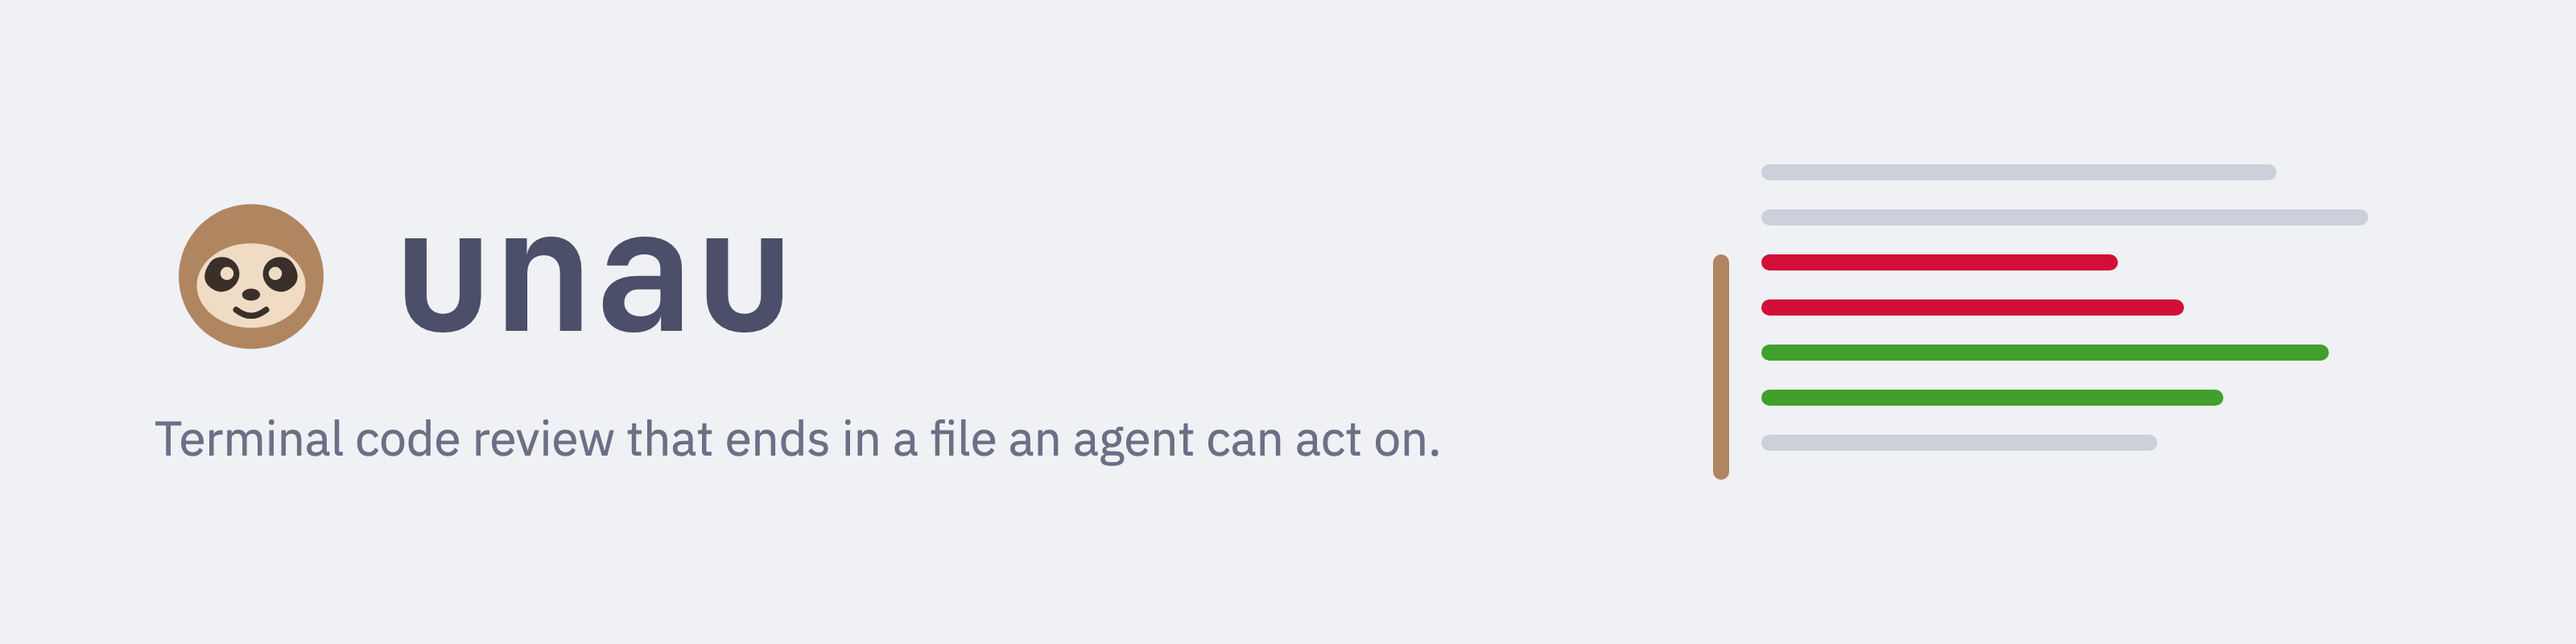
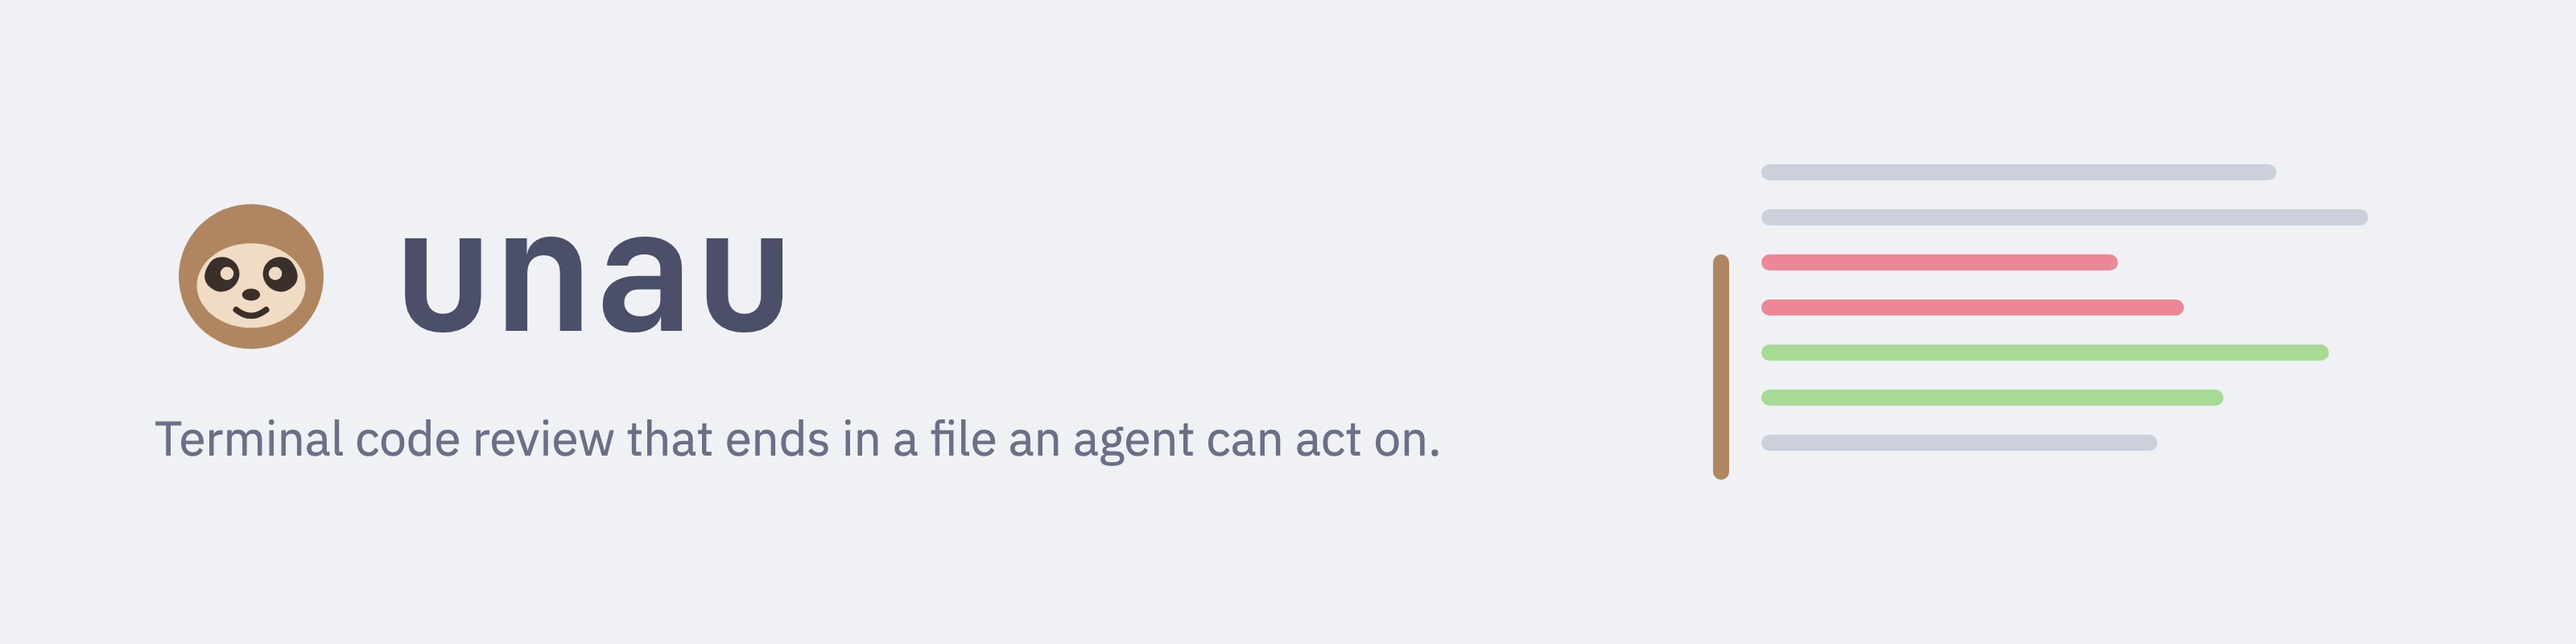
docs: fix stale help text, comments and README
Help text and comments still named .unau/ where the review folder can
move, the README's un-ignore advice could not work under a folder
pattern, and the light header used the saturated diff colours.

Changed region(s): [[0.6875, 0.375, 0.8438, 0.5], [0.6875, 0.5938, 0.875, 0.6562], [0.6875, 0.5312, 0.9062, 0.5625]]

diff --git a/src/config/keys.rs b/src/config/keys.rs
@@ -38,12 +38,12 @@ actions! {
     PrevHunk = "prev_hunk" ["K"] "previous block of changes",
     Top = "top" ["gg"] "first line",
     Bottom = "bottom" ["G"] "last line",
-    ScrollDown = "scroll_down" ["C-e"] "scroll down one line",
-    ScrollUp = "scroll_up" ["C-y"] "scroll up one line",
-    HalfPageDown = "half_page_down" ["C-d"] "half a page down",
-    HalfPageUp = "half_page_up" ["C-u"] "half a page up",
-    PageDown = "page_down" ["C-f"] "a page down",
-    PageUp = "page_up" ["C-b"] "a page up",
+    ScrollDown = "scroll_down" ["C-e"] "scroll the diff down one line",
+    ScrollUp = "scroll_up" ["C-y"] "scroll the diff up one line",
+    HalfPageDown = "half_page_down" ["C-d"] "scroll the diff half a page down",
+    HalfPageUp = "half_page_up" ["C-u"] "scroll the diff half a page up",
+    PageDown = "page_down" ["C-f"] "scroll the diff a page down",
+    PageUp = "page_up" ["C-b"] "scroll the diff a page up",
     PaneLeft = "pane_left" ["h", "Left"] "focus files",
     PaneRight = "pane_right" ["l", "Right"] "focus diff",
     SwitchPane = "switch_pane" ["Tab"] "switch pane",

diff --git a/src/config/template.rs b/src/config/template.rs
@@ -41,10 +41,10 @@ pub fn template() -> String {
         "# quote_lines = {DEFAULT_QUOTE_LINES}               # longer quotes keep their first & last lines; 0 = never cap"
     );
     text.push_str(
-        "# dir = \".unau\"               # where reviews go: relative to the repo, ~/…, or absolute; {repo} = repo folder name\n",
+        "# dir = \".unau\"               # where reviews go: relative to the repository, ~/…, or absolute; {repo} = its folder name\n",
     );
     text.push_str(
-        "# instructions = \".unau/instructions.md\"  # the repo's agent instructions file; default: instructions.md in dir\n",
+        "# instructions = \"…\"           # this repository's agent instructions file; default: instructions.md in the review folder\n",
     );
     text.push_str("\n[theme]\n# mode = \"auto\"                  # auto | light | dark\n");
     let _ = writeln!(text, "# dark = \"{}\"", defaults.dark_name);

diff --git a/src/app/navigate.rs b/src/app/navigate.rs
@@ -84,8 +84,7 @@ fn scrolled(
 }
 
 impl AppState {
-    /// `C-e`, `C-y`, `C-d`, `C-u`, `C-f`, `C-b` in whichever pane has focus.
-    /// The scroll keys move the diff from the files and comments panes too,
+    /// `C-e`, `C-y`, `C-d`, `C-u`, `C-f`, `C-b`. The scroll keys move the diff from the files and comments panes too,
     /// so a file can be read without leaving the list it was picked from.
     /// The run pane keeps them: they are how its output is paged.
     pub fn scroll(&mut self, by: Scroll, down: bool) {
@@ -222,7 +221,6 @@ impl AppState {
         }
     }
 
-    /// Reveals more of the file around the gap under the cursor.
     /// Reveals hidden lines near the cursor. On a separator both its edges
     /// grow; anywhere else the nearest separator grows from the edge facing
     /// the cursor, so the code next to what you are reading appears.

diff --git a/src/app/runlog.rs b/src/app/runlog.rs
@@ -75,7 +75,7 @@ pub fn clean_line(raw: &str) -> String {
             continue;
         }
         match chars.next() {
-            // CSI: parameters until a final byte in @..~.
+            // Control sequence (`ESC [`): parameters until a final byte in @..~.
             Some('[') => {
                 for c in chars.by_ref() {
                     if ('@'..='~').contains(&c) {
@@ -83,7 +83,8 @@ pub fn clean_line(raw: &str) -> String {
                     }
                 }
             }
-            // OSC: until BEL or the string terminator.
+            // Operating system command (`ESC ]`): until the bell or the string
+            // terminator.
             Some(']') => {
                 while let Some(c) = chars.next() {
                     if c == '\u{7}' || (c == '\u{1b}' && chars.next_if_eq(&'\\').is_some()) {

diff --git a/src/git/mod.rs b/src/git/mod.rs
@@ -15,7 +15,8 @@ use std::{
     process::{Command, Output, Stdio},
 };
 
-/// Directory the review files live in, relative to the repository root.
+/// Default review folder, relative to the repository root; `[review] dir`
+/// moves it.
 pub const REVIEW_DIR: &str = ".unau";
 
 /// The SHA-1 of git's empty tree, used as the parent of a root commit.
@@ -87,7 +88,7 @@ impl Repo {
         self.reviews.clone()
     }
 
-    /// The review dir as a path inside the repository, when it is inside.
+    /// The review folder as a path inside the repository, when it is inside.
     pub fn review_dir_in_tree(&self) -> Option<String> {
         let inside = self.reviews.strip_prefix(&self.root).ok()?;
         let inside = inside.to_string_lossy().replace('\\', "/");

diff --git a/src/cli.rs b/src/cli.rs
@@ -20,11 +20,11 @@ pub struct Args {
     #[arg(long, value_name = "FILE", conflicts_with = "target")]
     pub review: Option<PathBuf>,
 
-    /// Reopen the newest review in `.unau/`; start a new one if there is none.
+    /// Reopen the newest review in the review folder (`.unau/` unless `[review] dir` moves it); start a new one if there is none.
     #[arg(long = "continue", conflicts_with_all = ["review", "target", "path", "out"])]
     pub resume: bool,
 
-    /// Print the review to stdout on exit instead of writing `.unau/`. Only `-` is accepted.
+    /// Print the review to stdout on exit instead of writing a review file. Only `-` is accepted.
     #[arg(long, value_name = "-")]
     pub out: Option<String>,
 

diff --git a/src/app/comments.rs b/src/app/comments.rs
@@ -90,7 +90,8 @@ impl AppState {
 
     /// `L`: show and focus the pane, focus it, or hide it.
     pub fn toggle_comments(&mut self) {
-        // The left column is hidden while the diff is zoomed.
+        // Zoom hides the pane, so unzoom to show it; but on the pane already
+        // focused, `L` means hide, and unzooming would undo that.
         if self.layout.zoom && !(self.comments.visible && self.focus == Pane::Comments) {
             self.layout.zoom = false;
             self.relayout();

diff --git a/src/app/persist.rs b/src/app/persist.rs
@@ -8,7 +8,7 @@ use std::{fs, path::PathBuf};
 
 #[derive(Clone, Debug, PartialEq, Eq)]
 pub enum Store {
-    /// `.unau/<name>.md`. `path` is `None` until the first annotation;
+    /// `<name>.md` in the review folder. `path` is `None` until the first annotation;
     /// `synced` is the file's text as last written or read.
     File {
         path: Option<PathBuf>,

diff --git a/src/app/settings.rs b/src/app/settings.rs
@@ -179,7 +179,7 @@ impl AppState {
         Effect::EditFile(path)
     }
 
-    /// After the editor closes on `path`: reload whatever it was.
+    /// After the editor closes: reload whichever settings file changed.
     /// Closing the editor without changing anything reloads nothing and says
     /// nothing.
     pub fn after_edit(&mut self) {

diff --git a/src/app/mod.rs b/src/app/mod.rs
@@ -204,7 +204,6 @@ pub struct AppState {
     pub config_files: ConfigFiles,
     /// Output and status of the latest background run.
     pub run_log: Option<RunLog>,
-    /// The comments pane under the files pane.
     pub comments: CommentsPane,
     /// The theme picker, while it is open.
     pub theme_picker: Option<ThemePicker>,

diff --git a/src/git/apply.rs b/src/git/apply.rs
@@ -1,4 +1,5 @@
-//! Line staging: synthesise a patch for the selected lines and hand it to
+//! Staging, unstaging and discarding. Whole files go to `git add`, `reset`
+//! and `checkout` in batches; selected lines get a synthesised patch for
 //! `git apply`, the way lazygit does it.
 
 use super::{FileDiff, Line, LineKind, Repo};

diff --git a/src/config/mod.rs b/src/config/mod.rs
@@ -1,5 +1,5 @@
-//! `config.toml` (user) and `.unau.toml` (repository): key bindings, the
-//! run command, theme, gutter and quote length.
+//! `config.toml` (user) and `.unau.toml` (repository), read in that order:
+//! the repository file overrides the user's, setting by setting.
 
 mod keys;
 mod template;
